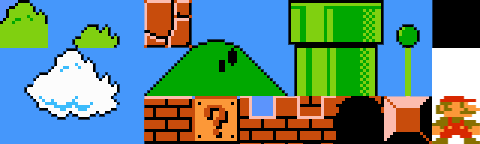
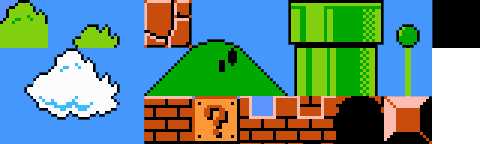
api mario running

Changed region(s): [[0.875, 0.6667, 1.0, 1.0]]

diff --git a/api3/engine/engine-game.js b/api3/engine/engine-game.js
@@ -4,6 +4,167 @@
 /* TILE COMPATIBLE: TILE - POLYLINE - RECT - CIRCLE */
 /* SOON: SOLID POLYLINE */
 
+function MainCharacter(_x, _y, collition){
+	//indexing
+	this.parent = null;
+	this.x = _x;
+	this.y = _y;
+	this.z = 0;
+	
+	//private
+	this.type = ELEMENT_TYPE.GRUP;
+	this.subelements = [];
+	this._visible = true;
+	this.areaw = 0;
+	this.areah = 0;
+	
+    this.tickCount = 0;
+	this.ticksPerFrame = 1;
+	
+	//CHARACTER
+	
+	this.setVisibilitySubElementsToFalse = function () {
+		for (key in this.subelements) {
+			if(this.subelements[key]._visible){
+				this.subelements[key]._visible = false;
+			}
+		}
+    };
+	
+	this.stand_left = null;
+	this.stand_right = null;
+	//this.maincharacter.shot_left = null;
+	//this.maincharacter.shot_right = null;
+	this.walk_left = null;
+	this.walk_right = null;
+	this.up_left = null;
+	this.up_right = null;
+	//this.maincharacter.down_left = null;
+	//this.maincharacter.down_right = null;
+	
+	//CHARACTER
+	
+	//PHYSICS - PHYSICS - PHYSICS - PHYSICS - PHYSICS - PHYSICS - PHYSICS - PHYSICS - PHYSICS - PHYSICS - PHYSICS - PHYSICS
+	this.floor = collition;
+	this.gravity = 10;
+	this.gravitylock = false;
+	this.gravitystopped = false;
+	//jump
+	this.jumpstate = false;
+	this.jump = 0;
+	//position
+	this.walking = false;
+	this.directionview = false; //false left - true right
+	//PHYSICS - PHYSICS - PHYSICS - PHYSICS - PHYSICS - PHYSICS - PHYSICS - PHYSICS - PHYSICS - PHYSICS - PHYSICS - PHYSICS
+	
+	this.setX = function(param){this.x = param;};
+	this.setY = function(param){this.y = param;};
+	this.getX = function(){ return this.x;};
+	this.getY = function(){ return this.y;};
+	this.plusX = function(param){
+		this.x += param; 
+		this.directionview = param > 0 ? true : false; 
+		this.walking = true;
+	};
+	this.plusY = function(param){this.y += param;};
+	
+	this.setZ = function(_z){
+		this.z = _z;
+		if(this.parent !== null) this.parent.subelements.sort(function(a, b){return a.z-b.z; });
+		else elements.sort(function(a, b){return a.z-b.z; });
+	};
+	
+	this.add = function(element){
+		addCustom(element, this.subelements);
+	};
+	
+	this.update = function(){
+		
+		this.tickCount += 1;
+		//sprite animation
+		if (this.tickCount > this.ticksPerFrame) {
+			this.tickCount = 0;
+			
+			//PHYSICS - PHYSICS - PHYSICS - PHYSICS - PHYSICS - PHYSICS - PHYSICS - PHYSICS - PHYSICS - PHYSICS - PHYSICS - PHYSICS
+			if(this.gravity!==0 && this.floor !==null){
+				
+				if(this.jumpstate){
+					this.gravitylock = false;
+					this.gravitystopped = true;
+					this.jump++;
+					
+					if(!tryIntersect(this, 0, -20, this.floor) && this.jump < 14)
+						this.y -= 20;
+					else this.jumpstate = false;
+					
+				}else {
+					this.gravitystopped = false;
+					this.jump = 0;
+				}
+
+				if(!this.gravitystopped){
+					var moved = false;
+					for(var i = this.gravity*2 ; i > 0 && !moved ; i--){
+						if(!tryIntersect(this, 0, i, this.floor)){ 
+							this.gravitylock = false;
+							this.y += i;
+							moved = true;
+						}else this.gravitylock = true;
+					}
+				}
+			}
+			//PHYSICS - PHYSICS - PHYSICS - PHYSICS - PHYSICS - PHYSICS - PHYSICS - PHYSICS - PHYSICS - PHYSICS - PHYSICS - PHYSICS
+		}
+		
+		this.setVisibilitySubElementsToFalse();
+		if(this.directionview && !this.jumpstate && !this.walking) this.stand_left.setVisibility(true);
+		else if(!this.directionview && !this.jumpstate && !this.walking) this.stand_right.setVisibility(true);
+		else if(this.directionview && this.jumpstate) this.up_left.setVisibility(true);
+		else if(!this.directionview && this.jumpstate) this.up_right.setVisibility(true);
+		else if(this.directionview && this.walking) { this.walk_left.setVisibility(true); this.walking = false;}
+		else if(!this.directionview && this.walking) { this.walk_right.setVisibility(true); this.walking = false;}
+		
+		for (key in this.subelements) {
+			if(this.subelements[key]._visible){
+				this.subelements[key].update();
+			}
+		}
+	};
+	
+	this.render = function(_x, _y){
+		for (key in this.subelements) {
+			if(this.subelements[key]._visible){
+				this.subelements[key].render(_x + this.x, _y + this.y);
+			}
+		}
+	};
+	
+	this.remove = function(){
+		for (key in this.subelements) {
+			this.subelements[key].remove();
+		}
+		if(this.parent === null){
+			var index = elements.indexOf(this);			
+			if (index > -1) {
+				elements.splice(index, 1);
+			}
+		}else{
+			var index = this.subelements.indexOf(this);			
+			if (index > -1) {
+				this.subelements.splice(index, 1);
+			}
+		}
+	};
+	
+	this.setVisibility = function (visibility) {
+		this._visible = visibility;
+    };
+	
+	this.intersectavailable = function(){
+		return this._visible;
+	};
+}
+
 function createImageTileMap(tilemap, id, x, y){
 
 	if(tilemap.tilesets !== undefined) {
@@ -139,7 +300,7 @@ function TileMap(_tilemap){
 										for (layernum in this.subelements){
 											if(this.subelements[layernum].layerTileMap.name === layer.objects[object].properties.floorlayer){
 												box.element.floor = this.subelements[layernum];
-												box.element.update = function () {
+												box.element.update = function () {	//overwrite update method
 													this.tickCount += 1;
 													//sprite animation
 													if (this.tickCount > this.ticksPerFrame) {
@@ -167,10 +328,8 @@ function TileMap(_tilemap){
 												}; 
 												
 												//PHYSICS - PHYSICS - PHYSICS - PHYSICS - PHYSICS - PHYSICS - PHYSICS - PHYSICS - PHYSICS - PHYSICS - PHYSICS - PHYSICS
-												//box.element.gravity = 0;
 												box.element.gravitylock = false;
 												box.element.gravitystopped = false;
-												//this.floor = null;
 												//PHYSICS - PHYSICS - PHYSICS - PHYSICS - PHYSICS - PHYSICS - PHYSICS - PHYSICS - PHYSICS - PHYSICS - PHYSICS - PHYSICS
 												break;
 											}

diff --git a/api3/receiver/receiver.html b/api3/receiver/receiver.html
@@ -18,64 +18,66 @@
 			//Load Engine
 			this.loadEngine('canvas-chromecast');
 			
+			this.loadImage('mario-statics');
+			this.loadImage('mario-dinamic-left');
+			this.loadImage('mario-dinamic-right');
 			var json = loadTileMap('map');
 			this.tilemap = new TileMap(json);
 			
 			this.load = function(){
-				tilemap.load();
-				add(tilemap);
-				this.maincharacter = this.tilemap.subelements[2].subelements[0];
+				this.tilemap.load();
+				this.add(this.tilemap);
+				
+				this.maincharacter = new MainCharacter(100, 100, this.tilemap.subelements[1]);
+				
+				this.maincharacter.stand_left = new ImageSplitElement('mario-statics', 0, 0, 4, 1, 3, 0);
+				this.maincharacter.stand_right = new ImageSplitElement('mario-statics', 0, 0, 4, 1, 2, 0);
+				this.maincharacter.walk_left = new SpriteElement('mario-dinamic-left', 0, 0, 3)
+				this.maincharacter.walk_right = new SpriteElement('mario-dinamic-right', 0, 0, 3)
+				this.maincharacter.up_left = new ImageSplitElement('mario-statics', 0, 0, 4, 1, 1, 0);
+				this.maincharacter.up_right= new ImageSplitElement('mario-statics', 0, 0, 4, 1, 0, 0);
+				
+				this.maincharacter.add(this.maincharacter.stand_left);
+				this.maincharacter.add(this.maincharacter.stand_right);
+				this.maincharacter.add(this.maincharacter.up_left);
+				this.maincharacter.add(this.maincharacter.up_right);
+				this.maincharacter.add(this.maincharacter.walk_left);
+				this.maincharacter.add(this.maincharacter.walk_right);
+				
+				this.tilemap.add(this.maincharacter);
 			}
-			
-			//jump
-			this.jumpstate = false;
-			this.jump = 0;
 			
 			//On input 
 			this.input = function(){
 				if (KEY_NUMS.RIGHT in keysDown) { //RIGHT
 					
 					if(!tryIntersect(this.maincharacter, 8, 0, this.maincharacter.floor)){
-						this.maincharacter.x += 8;
-						this.maincharacter.flipx = false;
-						if((this.canvas.width /2) < this.maincharacter.x)
-							this.tilemap.plusX(-8);
+									 
+						this.maincharacter.plusX(8);
+						
+						if((this.canvas.width /2) < this.maincharacter.getX()) this.tilemap.plusX(-8);
 					}
 					
 				}
 				if (KEY_NUMS.LEFT in keysDown) { //LEFT
 					
 					if(!tryIntersect(this.maincharacter, -8, 0, this.maincharacter.floor)){
-						if(this.maincharacter.x > 8)
-							this.maincharacter.x -= 8;
-						this.maincharacter.flipx = true;
-						if((this.canvas.width /2) < this.maincharacter.x)
-							this.tilemap.plusX(8);
+						
+						if(this.maincharacter.getX() > 8) this.maincharacter.plusX(-8);
+						
+						if((this.canvas.width /2) < this.maincharacter.getX()) this.tilemap.plusX(8);
 					}
 				}
 				if (KEY_NUMS.UP in keysDown) {	 //UP
 					
 					if(this.maincharacter.gravitylock)
-						this.jumpstate = true;
+						this.maincharacter.jumpstate = true;
 				}
 			}
 			
 			
 			this.update = function(){
 			
-				if(this.jumpstate){
-					this.maincharacter.gravitylock = false;
-					this.maincharacter.gravitystopped = true;
-					this.jump++;
-					
-					if(!tryIntersect(this.maincharacter, 0, -20, this.maincharacter.floor) && this.jump < 14)
-						this.maincharacter.y -= 20;
-					else this.jumpstate = false;
-					
-				}else {
-					this.maincharacter.gravitystopped = false;
-					this.jump = 0;
-				}
 			}
     	}
   	</script>

diff --git a/api3/engine/engine-receiver.js b/api3/engine/engine-receiver.js
@@ -716,9 +716,9 @@ function Element(_x, _y, _param1, _param2, _color, _type){
 				elements.splice(index, 1);
 			}
 		}else{ 
-			var index = this.parent.subelements.indexOf(this);
-			if (index > -1) {
-				this.parent.subelements.splice(index, 1);
+			var innd = this.parent.subelements.indexOf(this);
+			if (innd > -1) {
+				this.parent.subelements.splice(innd, 1);
 			}
 		}
 	};
@@ -735,11 +735,11 @@ function Element(_x, _y, _param1, _param2, _color, _type){
 		
 		context.beginPath();
 		if(this.type == ELEMENT_TYPE.RECT){
-			context.rect(_x + this.x, _y + this.y, _x + this.dx, _y + this.dy);
+			context.rect(_x + this.x, _y + this.y, this.dx, this.dy);
 			context.fillStyle = this.color;
 			context.fill();
 		}else if(this.type == ELEMENT_TYPE.RELN){
-			context.rect(_x + this.x, _y + this.y, _x + this.dx, _y + this.dy);
+			context.rect(_x + this.x, _y + this.y, this.dx, this.dy);
 			context.fillStyle = this.color;
 			context.fill();
 			context.lineWidth = this.dz;
